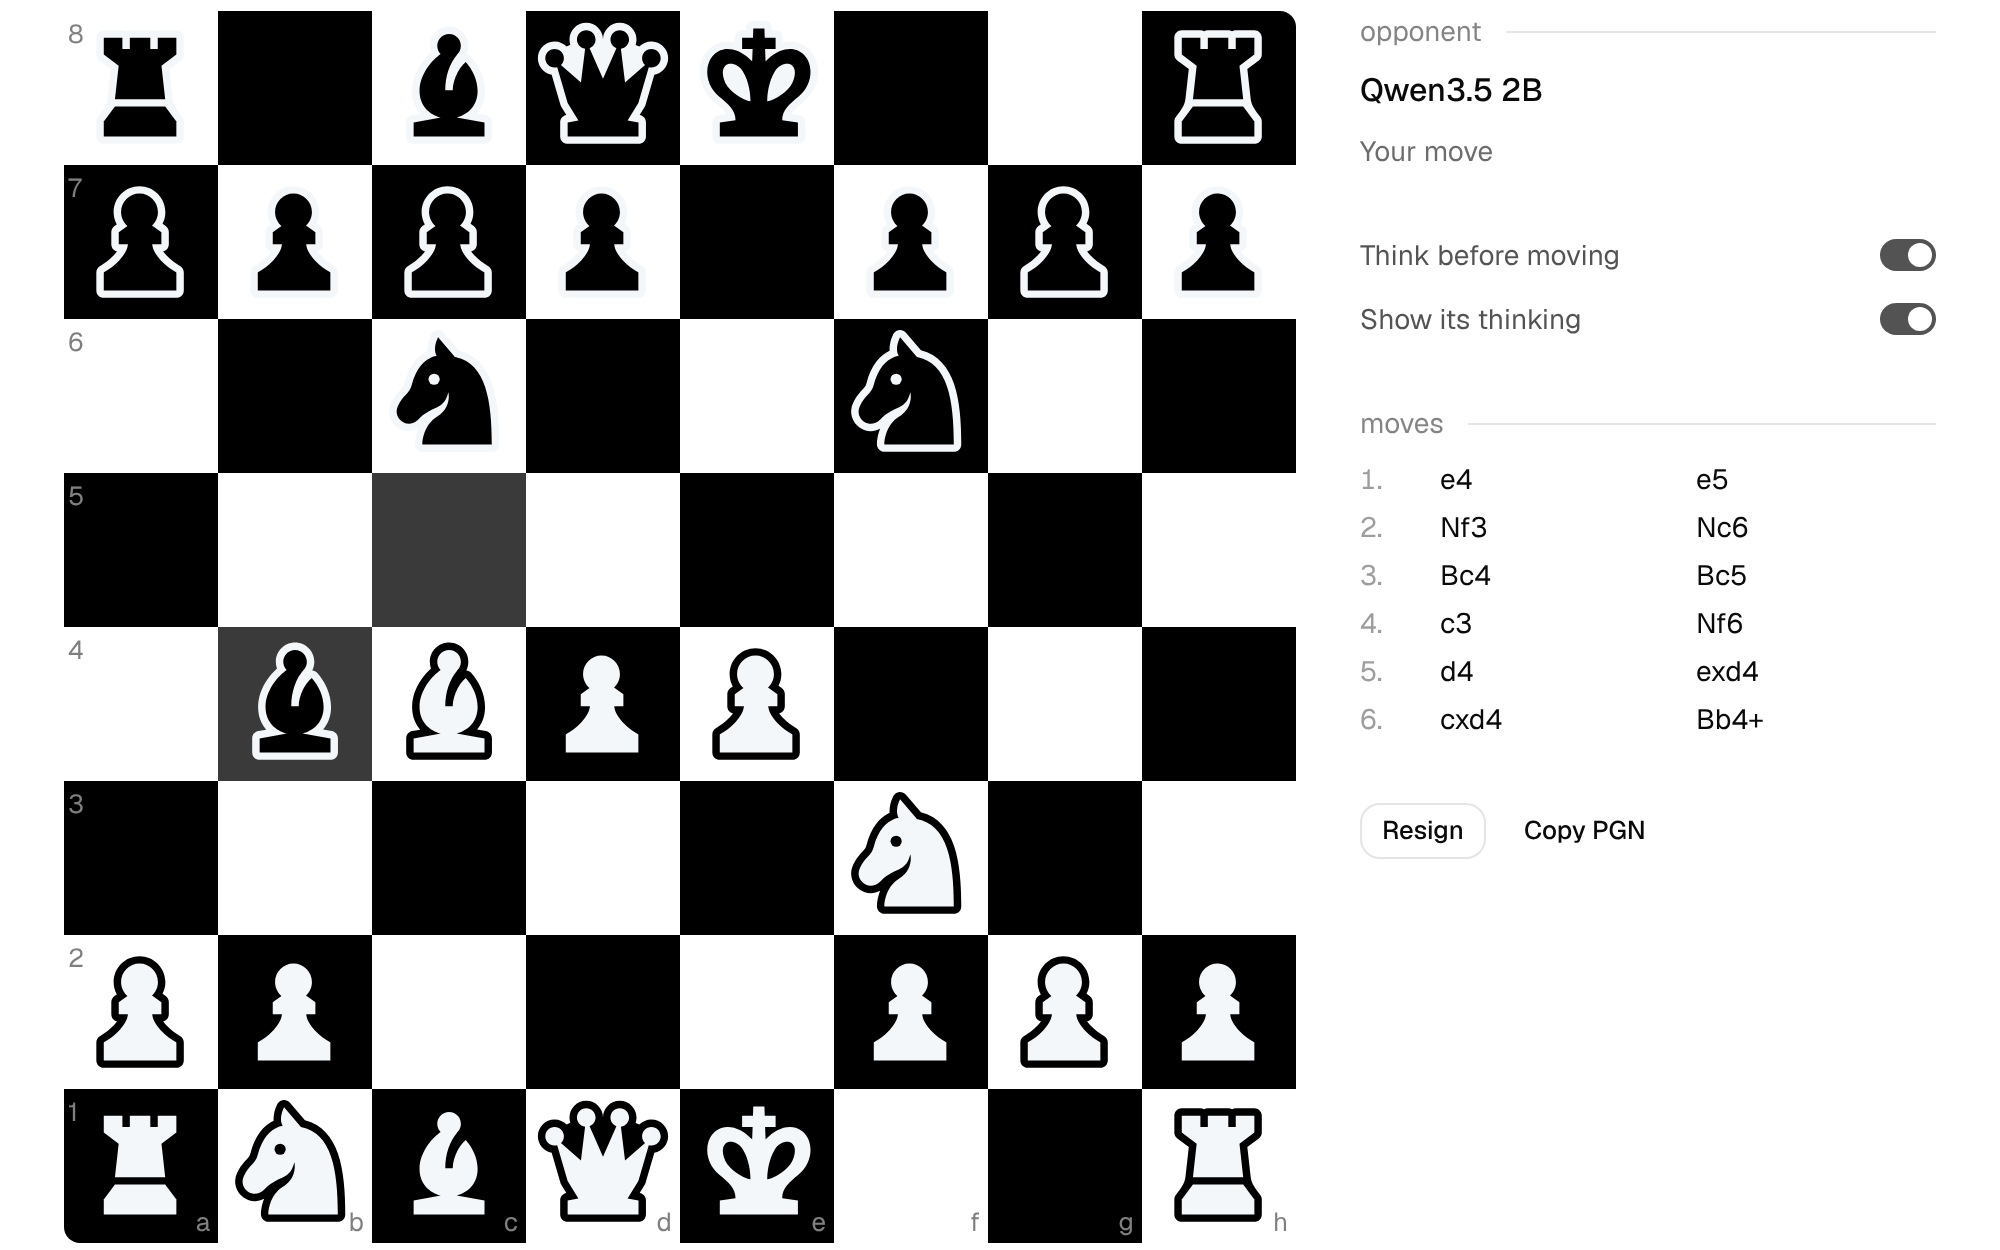
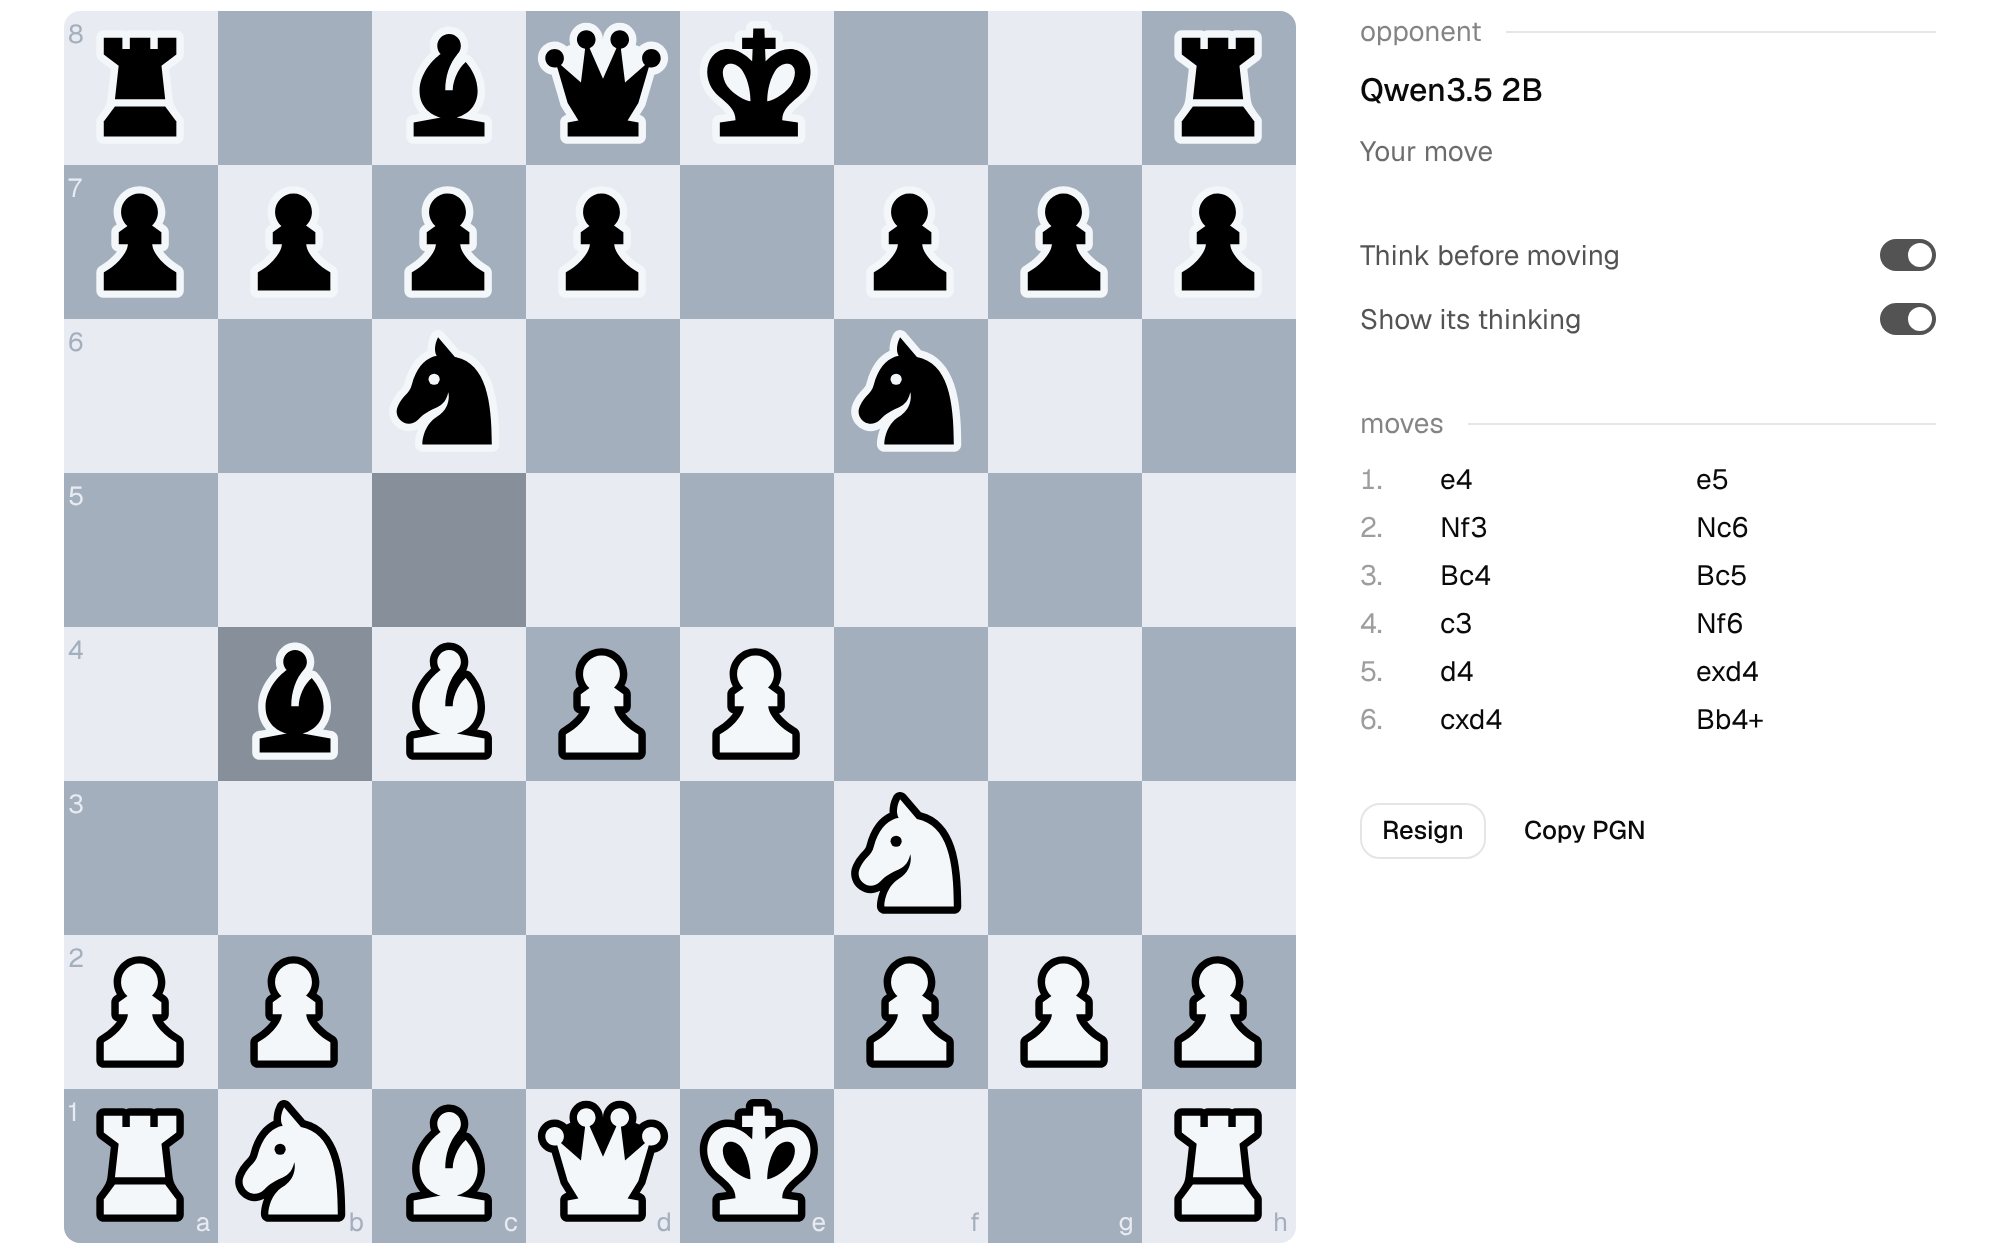
Give the chess board a quiet slate palette
Replaces the black and white squares with two cool slate grays per theme,
mid enough that both the black and the white pieces stand out on either
square. Coordinates take the color of the opposite square.

Claude-Session: https://claude.ai/code/session_01HGKG6U7k8wdaAMMQaDu5Q7

Changed region(s): [[0.031, 0.0, 0.651, 0.9984]]

diff --git a/workspaces/web/app/components/chess/Board.tsx b/workspaces/web/app/components/chess/Board.tsx
@@ -5,15 +5,15 @@ import type { Mention } from '~/lib/chess/mentions';
 import { PIECES } from './pieces';
 
 // The board, drawn by react-chessboard from chess.js's position. Its colors
-// come from --chess-* in styles/app.css, black and white in both themes, and
-// its pieces from ./pieces. Moves are made by dragging or by clicking a piece
-// and then a square.
+// come from --chess-* in styles/app.css, which follow the light and dark
+// themes, and its pieces from ./pieces. Moves are made by dragging or by
+// clicking a piece and then a square.
 
 // SVG arrows can't read CSS variables, so this one gray has to read on both
-// the black and white squares.
+// the light and dark boards.
 const ARROW = 'rgb(128 128 128 / 0.75)';
 
-const squareTint = 'color-mix(in oklab, var(--chess-mark) 45%, transparent)';
+const squareTint = 'color-mix(in oklab, var(--chess-mark) 25%, transparent)';
 const targetDot = `radial-gradient(circle, ${squareTint} 22%, transparent 24%)`;
 
 export function Board({
@@ -87,8 +87,8 @@ export function Board({
 		boardStyle: { borderRadius: '0.5rem', overflow: 'hidden' },
 		lightSquareStyle: { backgroundColor: 'var(--chess-light)' },
 		darkSquareStyle: { backgroundColor: 'var(--chess-dark)' },
-		lightSquareNotationStyle: { color: 'var(--chess-dark)', opacity: 0.5 },
-		darkSquareNotationStyle: { color: 'var(--chess-light)', opacity: 0.5 },
+		lightSquareNotationStyle: { color: 'var(--chess-dark)' },
+		darkSquareNotationStyle: { color: 'var(--chess-light)' },
 		dropSquareStyle: { boxShadow: 'inset 0 0 0 3px var(--chess-mark)' },
 		animationDurationInMs: 200,
 		canDragPiece: ({ piece }) => canMove && piece.pieceType[0] === chess.turn(),

diff --git a/workspaces/web/app/styles/app.css b/workspaces/web/app/styles/app.css
@@ -337,11 +337,18 @@
 	}
 }
 
-/* The /chess board (components/chess/Board.tsx): white and black squares in
-   both themes, and one mid gray mark for the last move and for what the model
-   is thinking about, which reads on either square. */
+/* The /chess board (components/chess/Board.tsx): two cool slate grays far
+   enough apart to read as a board, both mid enough that the black and the
+   white pieces stand out on either, and one mark for the last move and for
+   what the model is thinking about. */
 .chess-board {
-	--chess-light: #fff;
-	--chess-dark: #000;
-	--chess-mark: oklch(0.6 0 0);
+	--chess-light: oklch(0.94 0.008 255);
+	--chess-dark: oklch(0.75 0.025 255);
+	--chess-mark: oklch(0.3 0 0);
+
+	.dark & {
+		--chess-light: oklch(0.58 0.02 255);
+		--chess-dark: oklch(0.44 0.03 255);
+		--chess-mark: oklch(0.95 0 0);
+	}
 }
